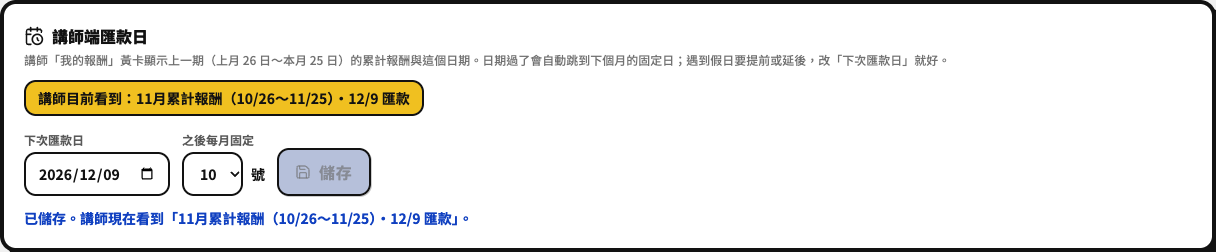
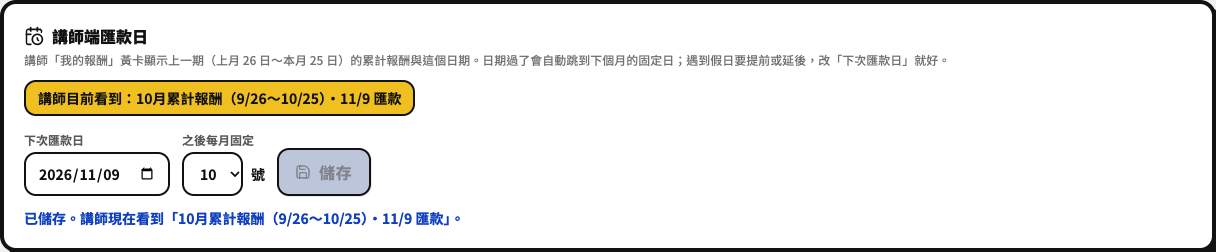
fix(salary): admin can only reschedule the current payout period
Review 2026-10-20 (must-fix): changing only the regular day (e.g. 10 -> 28) while the
next payday stayed 11/10 made teachers see the previous period (9月, 8/26-9/25) and amount.
- regularPaydayFor(period, day): the regular payday of a period.
- SalaryPaydaySetting: changing the regular day moves the next payday to the same period's
  new regular date; a date that resolves to another period than the current one is blocked
  (save disabled, submit ignored, red explanation). The period rolls only after its date passes.
- Browser verify 113 checks (8a/8b cover the guard; a mutant without the guard fails 7).

diff --git a/培訓web/src/components/admin/SalaryPaydaySetting.jsx b/培訓web/src/components/admin/SalaryPaydaySetting.jsx
@@ -10,6 +10,7 @@ import {
     monthNameOf,
     normalizePaydayDay,
     parseIsoDate,
+    regularPaydayFor,
     resolvePayout,
     shortDateOf,
 } from '../../lib/salaryPayday';
@@ -61,6 +62,17 @@ const SalaryPaydaySetting = () => {
     const changed = Boolean(saved) && (
         form.nextPayday !== effectivePayday(saved, today) || Number(form.regularDay) !== saved.regularDay
     );
+    // 只能改「目前這一期」的匯款日：換固定日或日期離太遠，會讓講師看到別的期別與金額（審查 2026-10-20 必修）
+    const currentPeriod = saved ? resolvePayout(saved, today).periodMonth : null;
+    const formPeriod = formValid ? resolvePayout(form, today).periodMonth : null;
+    const periodMismatch = changed && formValid && formPeriod !== currentPeriod;
+
+    const changeRegularDay = (value) => {
+        const regularDay = Number(value);
+        const sameTermPayday = currentPeriod ? regularPaydayFor(currentPeriod, regularDay) : null;
+        setForm({ nextPayday: sameTermPayday || form.nextPayday, regularDay });
+        setMessage(null);
+    };
 
     const save = async (event) => {
         event.preventDefault();
@@ -69,6 +81,7 @@ const SalaryPaydaySetting = () => {
             setMessage({ tone: 'error', text: '請選今天或之後的日期。' });
             return;
         }
+        if (periodMismatch) return;
         setSaving(true);
         setMessage(null);
         const regularDay = normalizePaydayDay(form.regularDay);
@@ -142,7 +155,7 @@ const SalaryPaydaySetting = () => {
                         <span className="flex items-center gap-2">
                             <select
                                 value={form.regularDay}
-                                onChange={e => { setForm({ ...form, regularDay: Number(e.target.value) }); setMessage(null); }}
+                                onChange={e => changeRegularDay(e.target.value)}
                                 className="min-h-[44px] px-3 border-2 border-bauhaus-black rounded-xl bg-white text-sm font-bold text-bauhaus-black outline-none focus:ring-2 focus:ring-bauhaus-blue"
                             >
                                 {DAY_OPTIONS.map(day => <option key={day} value={day}>{day}</option>)}
@@ -150,10 +163,16 @@ const SalaryPaydaySetting = () => {
                             <span className="text-sm text-bauhaus-black">號</span>
                         </span>
                     </label>
-                    <button type="submit" disabled={saving || !changed} className="bh-btn bh-btn-blue px-4 py-2.5 min-h-[44px]">
+                    <button type="submit" disabled={saving || !changed || periodMismatch} className="bh-btn bh-btn-blue px-4 py-2.5 min-h-[44px]">
                         <Save className="w-4 h-4" aria-hidden="true" /> {saving ? '儲存中…' : '儲存'}
                     </button>
-                    {changed && formValid && (
+                    {periodMismatch && (
+                        <p role="alert" className="w-full text-sm font-bold text-bauhaus-red">
+                            這樣設定會變成匯「{monthNameOf(formPeriod)}」，但目前這一期是「{monthNameOf(currentPeriod)}」。
+                            下次匯款日請選這一期的匯款日（固定日前後幾天內）；這期日期過了會自動換下一期。
+                        </p>
+                    )}
+                    {changed && formValid && !periodMismatch && (
                         <p className="w-full text-xs font-bold text-bauhaus-black/70">
                             儲存後講師會看到「{teacherSees({ nextPayday: form.nextPayday, regularDay: form.regularDay }, today)}」。
                         </p>

diff --git a/培訓web/src/lib/salaryPayday.test.js b/培訓web/src/lib/salaryPayday.test.js
@@ -6,6 +6,7 @@ import {
     normalizePaydayDay,
     parseIsoDate,
     payoutScheduleFromResponse,
+    regularPaydayFor,
     resolvePayout,
     shortDateOf,
     summarizePayrollPeriod,
@@ -53,6 +54,19 @@ test('讀不到設定時用每月 10 號', () => {
     assert.equal(at({ nextPayday: 'bad', regularDay: 'x' }, '2026-10-09'), '2026-10-10 2026/09');
     assert.equal(at({ nextPayday: null, regularDay: 25 }, '2026-10-26'), '2026-11-25 2026/10');
     assert.equal(at({}, '2027-01-11'), '2027-02-10 2027/01');
+});
+
+test('某一期照固定日的匯款日（後台改固定日時用來帶出同一期的新日期）', () => {
+    assert.equal(regularPaydayFor('2026/10', 10), '2026-11-10');
+    assert.equal(regularPaydayFor('2026/10', 28), '2026-11-28');
+    assert.equal(regularPaydayFor('2026/12', 5), '2027-01-05');
+    assert.equal(regularPaydayFor('2027/01', 28), '2027-02-28');
+    assert.equal(regularPaydayFor('bad', 10), null);
+    // 帶出來的日期回頭算期別，必須還是同一期（審查 2026-10-20 必修：只改固定日不能換期）
+    for (const day of [1, 5, 10, 15, 20, 25, 26, 27, 28]) {
+        const payday = regularPaydayFor('2026/10', day);
+        assert.equal(resolvePayout({ nextPayday: payday, regularDay: day }, '2026-10-20').periodMonth, '2026/10', String(day));
+    }
 });
 
 test('讀取結果：表還沒建或沒資料就安靜退回；其他錯誤標 failed', () => {

diff --git a/培訓web/src/lib/salaryPayday.js b/培訓web/src/lib/salaryPayday.js
@@ -79,6 +79,14 @@ export const resolvePayout = ({ nextPayday, regularDay } = {}, today) => {
     throw new Error('找不到下次匯款日');
 };
 
+// 某一期（'YYYY/MM'）照固定日該在哪天匯：那一期的隔月固定日（'2026/10', 10 → '2026-11-10'）
+export const regularPaydayFor = (periodMonth, regularDay) => {
+    const match = /^(\d{4})\/(\d{2})$/.exec(String(periodMonth ?? ''));
+    if (!match) return null;
+    const next = shiftMonth({ year: Number(match[1]), month: Number(match[2]) }, 1);
+    return toIso(paydayIn(next, normalizePaydayDay(regularDay)));
+};
+
 // 前端讀 salary_payout_schedule 的結果 → 設定值；表還沒建或讀不到列時用每月 10 號，
 // 其他錯誤（網路、伺服器）也先用 10 號，但標 failed 讓畫面註明「預估」。
 export const payoutScheduleFromResponse = ({ data, error } = {}) => {
